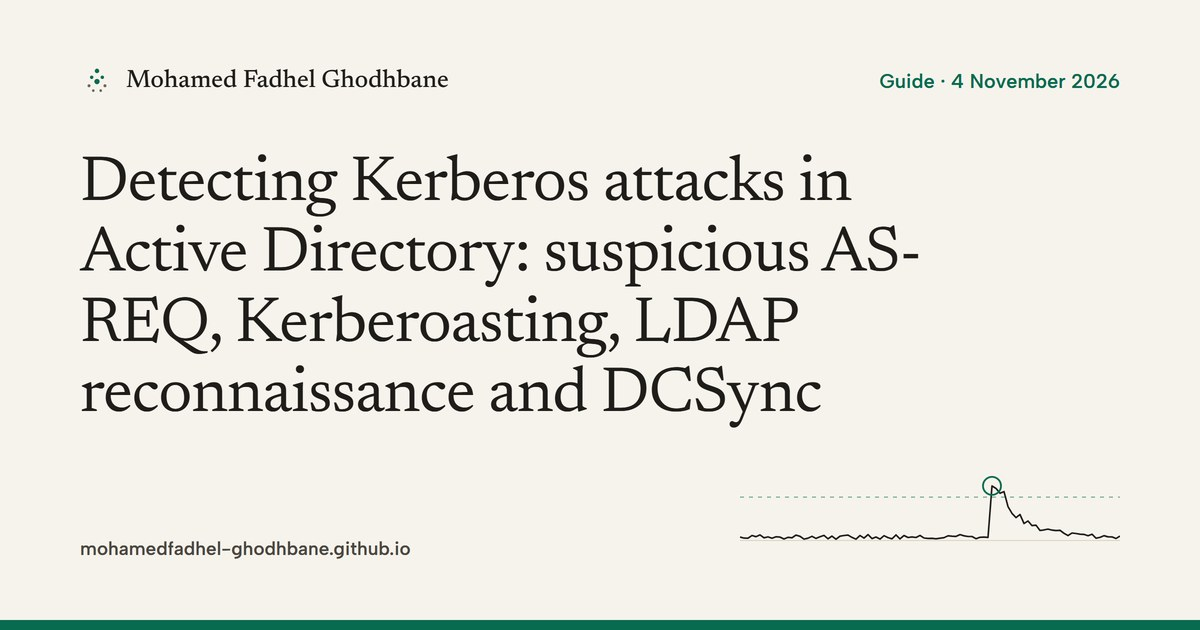
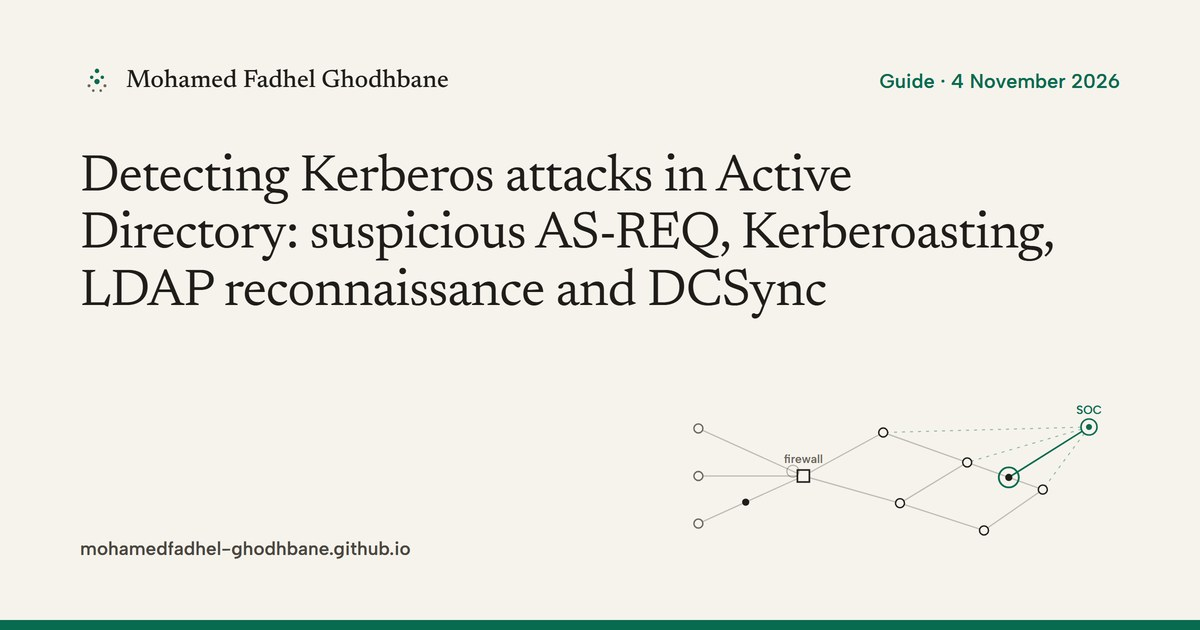
Show the network map on the link preview cards
The site card and every article card now carry a small static version
of the hero network map instead of the old strip chart. Long titles get
a smaller box so the address never runs into the bottom bar.

diff --git a/tools/og-images.py b/tools/og-images.py
@@ -40,25 +40,44 @@ def font(rel):
     return "data:font/woff2;base64," + base64.b64encode((ROOT / "node_modules" / rel).read_bytes()).decode()
 
 
-def chart(seed):
-    """A small static strip chart: quiet baseline, one peak over the dashed threshold, ringed."""
+def network(seed):
+    """A small static network map, matching the home page hero: the firewall stops traffic, the SOC rings the packet that got in."""
     rng = random.Random(seed)
-    width, height, base, top = 380, 110, 92, 14
-    points, value, peak_at = [], 0.0, 0.66
-    for i in range(96):
-        t = i / 95
-        value = value * 0.86 + (0.9 if i == round(95 * peak_at) else 0)
-        v = 0.04 + (rng.random() - 0.5) * 0.06 + value * (0.6 + 0.4 * rng.random())
-        points.append((t * width, base - v * (base - top)))
-    px, py = min(points, key=lambda p: p[1])
-    threshold = base - 0.55 * (base - top)
-    line = " ".join(f"{x:.1f},{y:.1f}" for x, y in points)
-    return f"""<svg width="{width}" height="{height}" viewBox="0 0 {width} {height}" fill="none">
-  <line x1="0" y1="{base + 0.5}" x2="{width}" y2="{base + 0.5}" stroke="#ddd5c6"/>
-  <line x1="0" y1="{threshold:.1f}" x2="{width}" y2="{threshold:.1f}" stroke="#086b50" stroke-dasharray="4 5" opacity="0.6"/>
-  <polyline points="{line}" stroke="#1f1d1a" stroke-width="1.6" stroke-linejoin="round"/>
-  <circle cx="{px:.1f}" cy="{py:.1f}" r="9" stroke="#086b50" stroke-width="1.8"/>
-</svg>"""
+    width, height = 440, 170
+    layout = {
+        "e0": (0.02, 0.15), "e1": (0.02, 0.5), "e2": (0.02, 0.85), "fw": (0.27, 0.5),
+        "a": (0.46, 0.18), "b": (0.5, 0.7), "c": (0.66, 0.4), "d": (0.7, 0.9), "e": (0.84, 0.6), "soc": (0.95, 0.14),
+    }
+    pos = {k: (10 + fx * (width - 20), 20 + fy * (height - 34)) for k, (fx, fy) in layout.items()}
+    links = [("e0", "fw"), ("e1", "fw"), ("e2", "fw"), ("fw", "a"), ("fw", "b"), ("a", "c"), ("b", "c"), ("b", "d"), ("c", "e"), ("d", "e")]
+    watch = [("soc", "a"), ("soc", "c"), ("soc", "e")]
+
+    def along(a, b, t):
+        (x1, y1), (x2, y2) = pos[a], pos[b]
+        return x1 + (x2 - x1) * t, y1 + (y2 - y1) * t
+
+    caught = rng.choice([("b", "c", 0.7), ("c", "e", 0.55), ("d", "e", 0.6)])
+    cx, cy = along(*caught)
+    mx, my = along("e2", "fw", 0.45)
+    bx, by = along("e0", "fw", 0.9)
+    soc = pos["soc"]
+    parts = [f'<line x1="{pos[a][0]:.1f}" y1="{pos[a][1]:.1f}" x2="{pos[b][0]:.1f}" y2="{pos[b][1]:.1f}" stroke="#6c675e" stroke-opacity="0.4" stroke-width="1.2"/>' for a, b in links]
+    parts += [f'<line x1="{pos[a][0]:.1f}" y1="{pos[a][1]:.1f}" x2="{pos[b][0]:.1f}" y2="{pos[b][1]:.1f}" stroke="#086b50" stroke-opacity="0.45" stroke-dasharray="3 5"/>' for a, b in watch]
+    parts.append(f'<line x1="{soc[0]:.1f}" y1="{soc[1]:.1f}" x2="{cx:.1f}" y2="{cy:.1f}" stroke="#086b50" stroke-width="1.6"/>')
+    for k, (x, y) in pos.items():
+        if k == "fw":
+            parts.append(f'<rect x="{x - 6:.1f}" y="{y - 6:.1f}" width="12" height="12" fill="#f6f3ec" stroke="#1f1d1a" stroke-width="1.6"/>')
+            parts.append(f'<text x="{x:.1f}" y="{y - 13:.1f}" text-anchor="middle" font-family="OG Sans" font-weight="600" font-size="12" fill="#6c675e">firewall</text>')
+        elif k == "soc":
+            parts.append(f'<circle cx="{x:.1f}" cy="{y:.1f}" r="8" fill="#f6f3ec" stroke="#086b50" stroke-width="1.6"/><circle cx="{x:.1f}" cy="{y:.1f}" r="3" fill="#086b50"/>')
+            parts.append(f'<text x="{x:.1f}" y="{y - 13:.1f}" text-anchor="middle" font-family="OG Sans" font-weight="600" font-size="12" fill="#086b50">SOC</text>')
+        else:
+            stroke = "#6c675e" if k.startswith("e") and len(k) == 2 else "#1f1d1a"
+            parts.append(f'<circle cx="{x:.1f}" cy="{y:.1f}" r="4.5" fill="#f6f3ec" stroke="{stroke}" stroke-width="1.4"/>')
+    parts.append(f'<circle cx="{bx:.1f}" cy="{by:.1f}" r="6" stroke="#1f1d1a" stroke-opacity="0.35"/>')
+    parts.append(f'<circle cx="{mx:.1f}" cy="{my:.1f}" r="3.6" fill="#1f1d1a"/>')
+    parts.append(f'<circle cx="{cx:.1f}" cy="{cy:.1f}" r="3.6" fill="#1f1d1a"/><circle cx="{cx:.1f}" cy="{cy:.1f}" r="10" stroke="#086b50" stroke-width="1.8"/>')
+    return f'<svg width="{width}" height="{height}" viewBox="0 0 {width} {height}" fill="none">' + "".join(parts) + "</svg>"
 
 
 def card_html(title, meta, seed, serif, sans):
@@ -74,19 +93,19 @@ html, body {{ margin: 0; width: 1200px; height: 630px; overflow: hidden; backgro
 .brand {{ display: flex; align-items: center; gap: 12px; font: 500 25px/1 "OG Serif"; color: #1f1d1a; }}
 .brand svg {{ width: 34px; height: 34px; }}
 .meta {{ font: 600 20px/1 "OG Sans"; color: #086b50; }}
-h1 {{ margin: 52px 0 0; max-width: 1000px; max-height: 300px; font: 400 64px/1.1 "OG Serif"; letter-spacing: -0.015em; color: #1f1d1a; text-wrap: balance; }}
+h1 {{ margin: 52px 0 0; max-width: 1000px; max-height: 230px; font: 400 64px/1.1 "OG Serif"; letter-spacing: -0.015em; color: #1f1d1a; text-wrap: balance; }}
 .bottom {{ margin-top: auto; display: flex; justify-content: space-between; align-items: flex-end; }}
 .url {{ font: 600 19px/1 "OG Sans"; color: #4a4640; }}
 </style></head><body><div class="card">
   <div class="top"><div class="brand">{glyph}Mohamed Fadhel Ghodhbane</div><div class="meta">{html.escape(meta)}</div></div>
   <h1 id="t">{html.escape(title)}</h1>
-  <div class="bottom"><div class="url">mohamedfadhel-ghodhbane.github.io</div>{chart(seed)}</div>
+  <div class="bottom"><div class="url">mohamedfadhel-ghodhbane.github.io</div>{network(seed)}</div>
 </div>
 <script>
   // shrink long titles until they fit the title box
   var t = document.getElementById('t'), size = 64;
   document.fonts.ready.then(function () {{
-    while (t.scrollHeight > 300 && size > 40) {{ size -= 2; t.style.fontSize = size + 'px'; }}
+    while (t.scrollHeight > 230 && size > 40) {{ size -= 2; t.style.fontSize = size + 'px'; }}
   }});
 </script></body></html>"""
 
